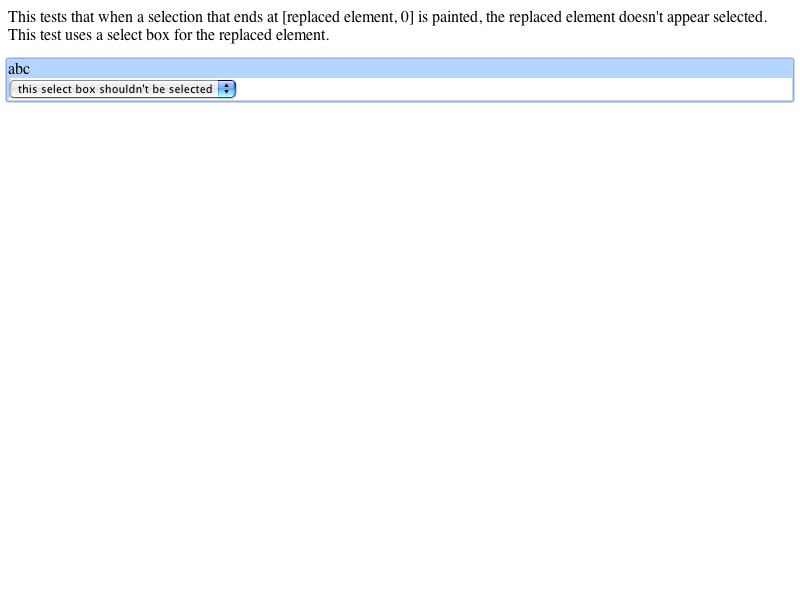
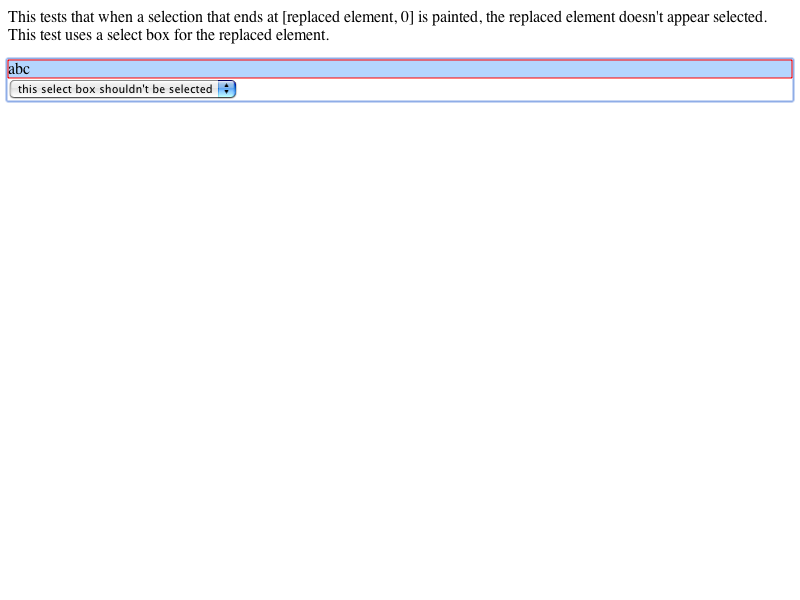
LayoutTests:
Reviewed by darin
        
        <http://bugzilla.opendarwin.org/show_bug.cgi?id=8067>
        REGRESSION: selectionRect includes next/previous replaced elements
        <rdar://problems/4402375&4474871&4474871>
        
        * editing/selection/4402375-expected.checksum: Added.
        * editing/selection/4402375-expected.png: Added.
        * editing/selection/4402375-expected.txt: Added.
        * editing/selection/4402375.html: Added.
        Turned on dumpSelectionRect for these tests:
        * editing/selection/replaced-boundaries-1-expected.checksum:
        * editing/selection/replaced-boundaries-1-expected.png:
        * editing/selection/replaced-boundaries-1.html:
        * editing/selection/replaced-boundaries-2-expected.checksum:
        * editing/selection/replaced-boundaries-2-expected.png:
        * editing/selection/replaced-boundaries-2.html:
        * editing/selection/replaced-boundaries-3-expected.checksum:
        * editing/selection/replaced-boundaries-3-expected.png:
        * editing/selection/replaced-boundaries-3.html:
        * editing/selection/image-before-linebreak-expected.checksum: Added.
        * editing/selection/image-before-linebreak-expected.png: Added.
        * editing/selection/image-before-linebreak-expected.txt: Added.
        * editing/selection/image-before-linebreak.html: Added.

WebCore:

        Reviewed by darin
        
        <http://bugzilla.opendarwin.org/show_bug.cgi?id=8067>
[…]

Changed region(s): [[0.0, 0.09, 1.0, 0.15]]

diff --git a/editing/selection/4402375.html b/editing/selection/4402375.html
@@ -1,0 +1,12 @@
+<p>This is a testcase for <a href="rdar://problem/4402375">rdar://problem/4402375</a> "REGRESSION (417.8-TOT): finding text sometimes also selects previous image (5127) (6451)"</p>
+<hr>
+<p>This test uses a right aligned image next to some left aligned text.  The image should not be selected, and should not be included in the selection rect (you won't see the selection rect when you run this test manually).</p>
+<div id="test" align="left"><img src="../resources/abe.jpg" align="right">This text should be selected.</div>
+<script>
+if (window.layoutTestController)
+    window.layoutTestController.dumpSelectionRect();
+var e = document.getElementById("test");
+var s = window.getSelection();
+// Select the text node.
+s.setBaseAndExtent(e, 1, e, 2);
+</script>

diff --git a/editing/selection/image-before-linebreak.html b/editing/selection/image-before-linebreak.html
@@ -1,0 +1,13 @@
+<p>Only the line break after the image should be selected.</p>
+<hr>
+<div contenteditable="true" id="div"><img src="../resources/abe.jpg"><br>foo</div>
+
+<script>
+if (window.layoutTestController)
+    window.layoutTestController.dumpSelectionRect();
+    
+var e = document.getElementById("div");
+var s = window.getSelection();
+// Select the line break
+s.setBaseAndExtent(e, 1, e, 2);
+</script>

diff --git a/editing/selection/replaced-boundaries-1.html b/editing/selection/replaced-boundaries-1.html
@@ -3,6 +3,8 @@
 <script src=../editing.js language="JavaScript" type="text/JavaScript" ></script>
 <script>
 function editingTest() {
+    if (window.layoutTestController)
+        window.layoutTestController.dumpSelectionRect();
     selectAllCommand();
     moveSelectionForwardByCharacterCommand();
     extendSelectionBackwardByCharacterCommand();

diff --git a/editing/selection/replaced-boundaries-2.html b/editing/selection/replaced-boundaries-2.html
@@ -3,6 +3,8 @@
 <script src=../editing.js language="JavaScript" type="text/JavaScript" ></script>
 <script>
 function editingTest() {
+    if (window.layoutTestController)
+        window.layoutTestController.dumpSelectionRect();
     selectAllCommand();
     moveSelectionBackwardByCharacterCommand();
     extendSelectionForwardByCharacterCommand();

diff --git a/editing/selection/replaced-boundaries-3.html b/editing/selection/replaced-boundaries-3.html
@@ -3,6 +3,8 @@
 <script src=../editing.js language="JavaScript" type="text/JavaScript" ></script>
 <script>
 function editingTest() {
+    if (window.layoutTestController)
+        window.layoutTestController.dumpSelectionRect();
     selectAllCommand();
     moveSelectionBackwardByCharacterCommand();
     extendSelectionForwardByLineCommand();
